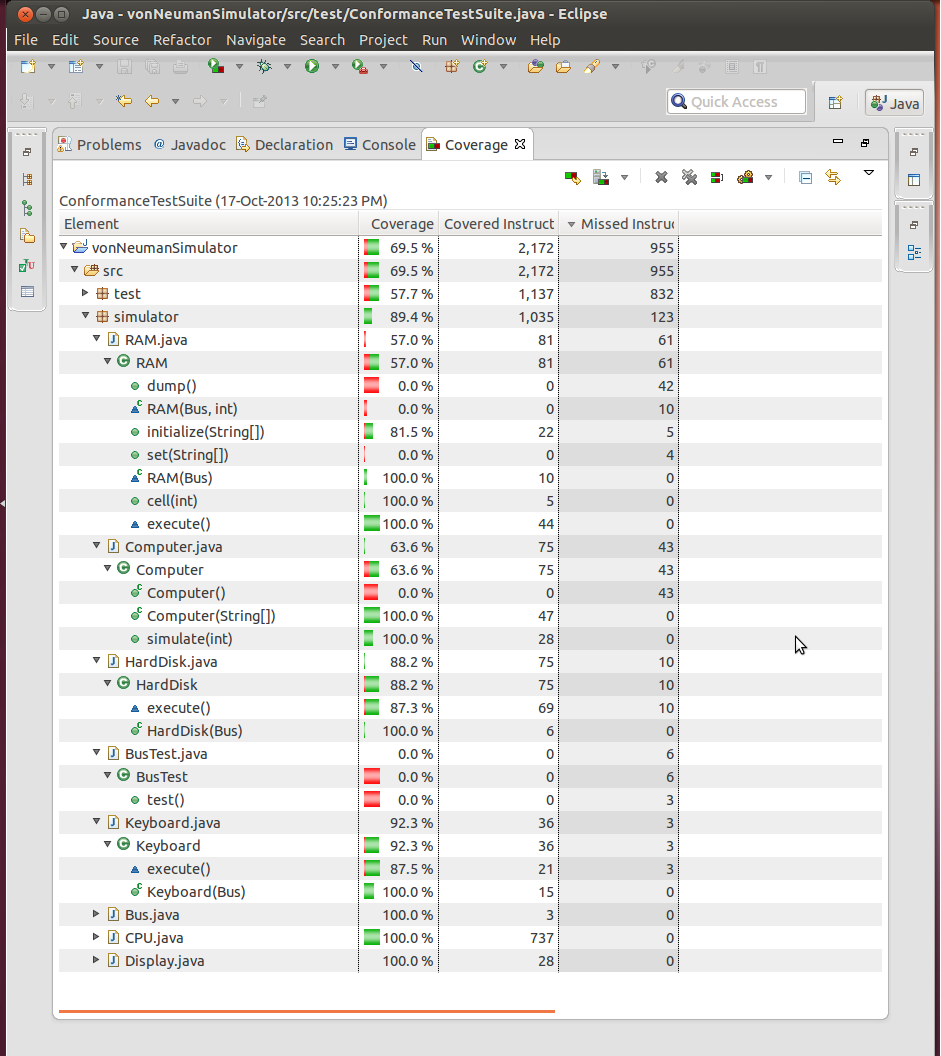
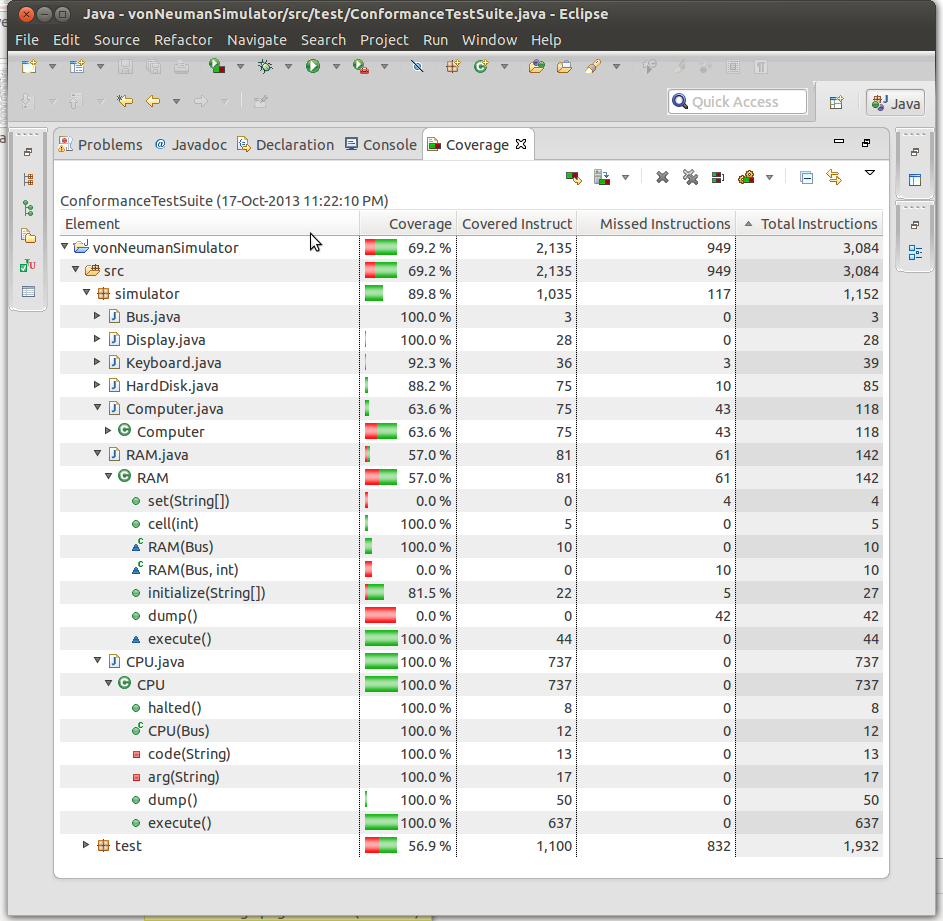
Mod: Forgot HALT code.

Changed region(s): [[0.0, 0.0, 1.0, 1.0]]

diff --git a/src/test/ConformanceTestSuite.java b/src/test/ConformanceTestSuite.java
@@ -192,7 +192,18 @@ public class ConformanceTestSuite {
 		computer.simulate(10 * testStr.length);
 		assertTrue(Routine.busStateIsMatching(computer.bus, xpctBUS));
 		assertTrue(Routine.ramStateIsMatching(computer.ram, xpctRAM));
+	}
 
+	@Test
+	public void testHALTRoutine() {
+
+		String testStr[] = { "HALT" };
+		String xpctBUS[] = { "0", "ACK", "HALT" };
+
+		Computer computer = new Computer(testStr);
+		computer.simulate(10 * testStr.length);
+
+		assertTrue(Routine.busStateIsMatching(computer.bus, xpctBUS));
 	}
 
 	/**
